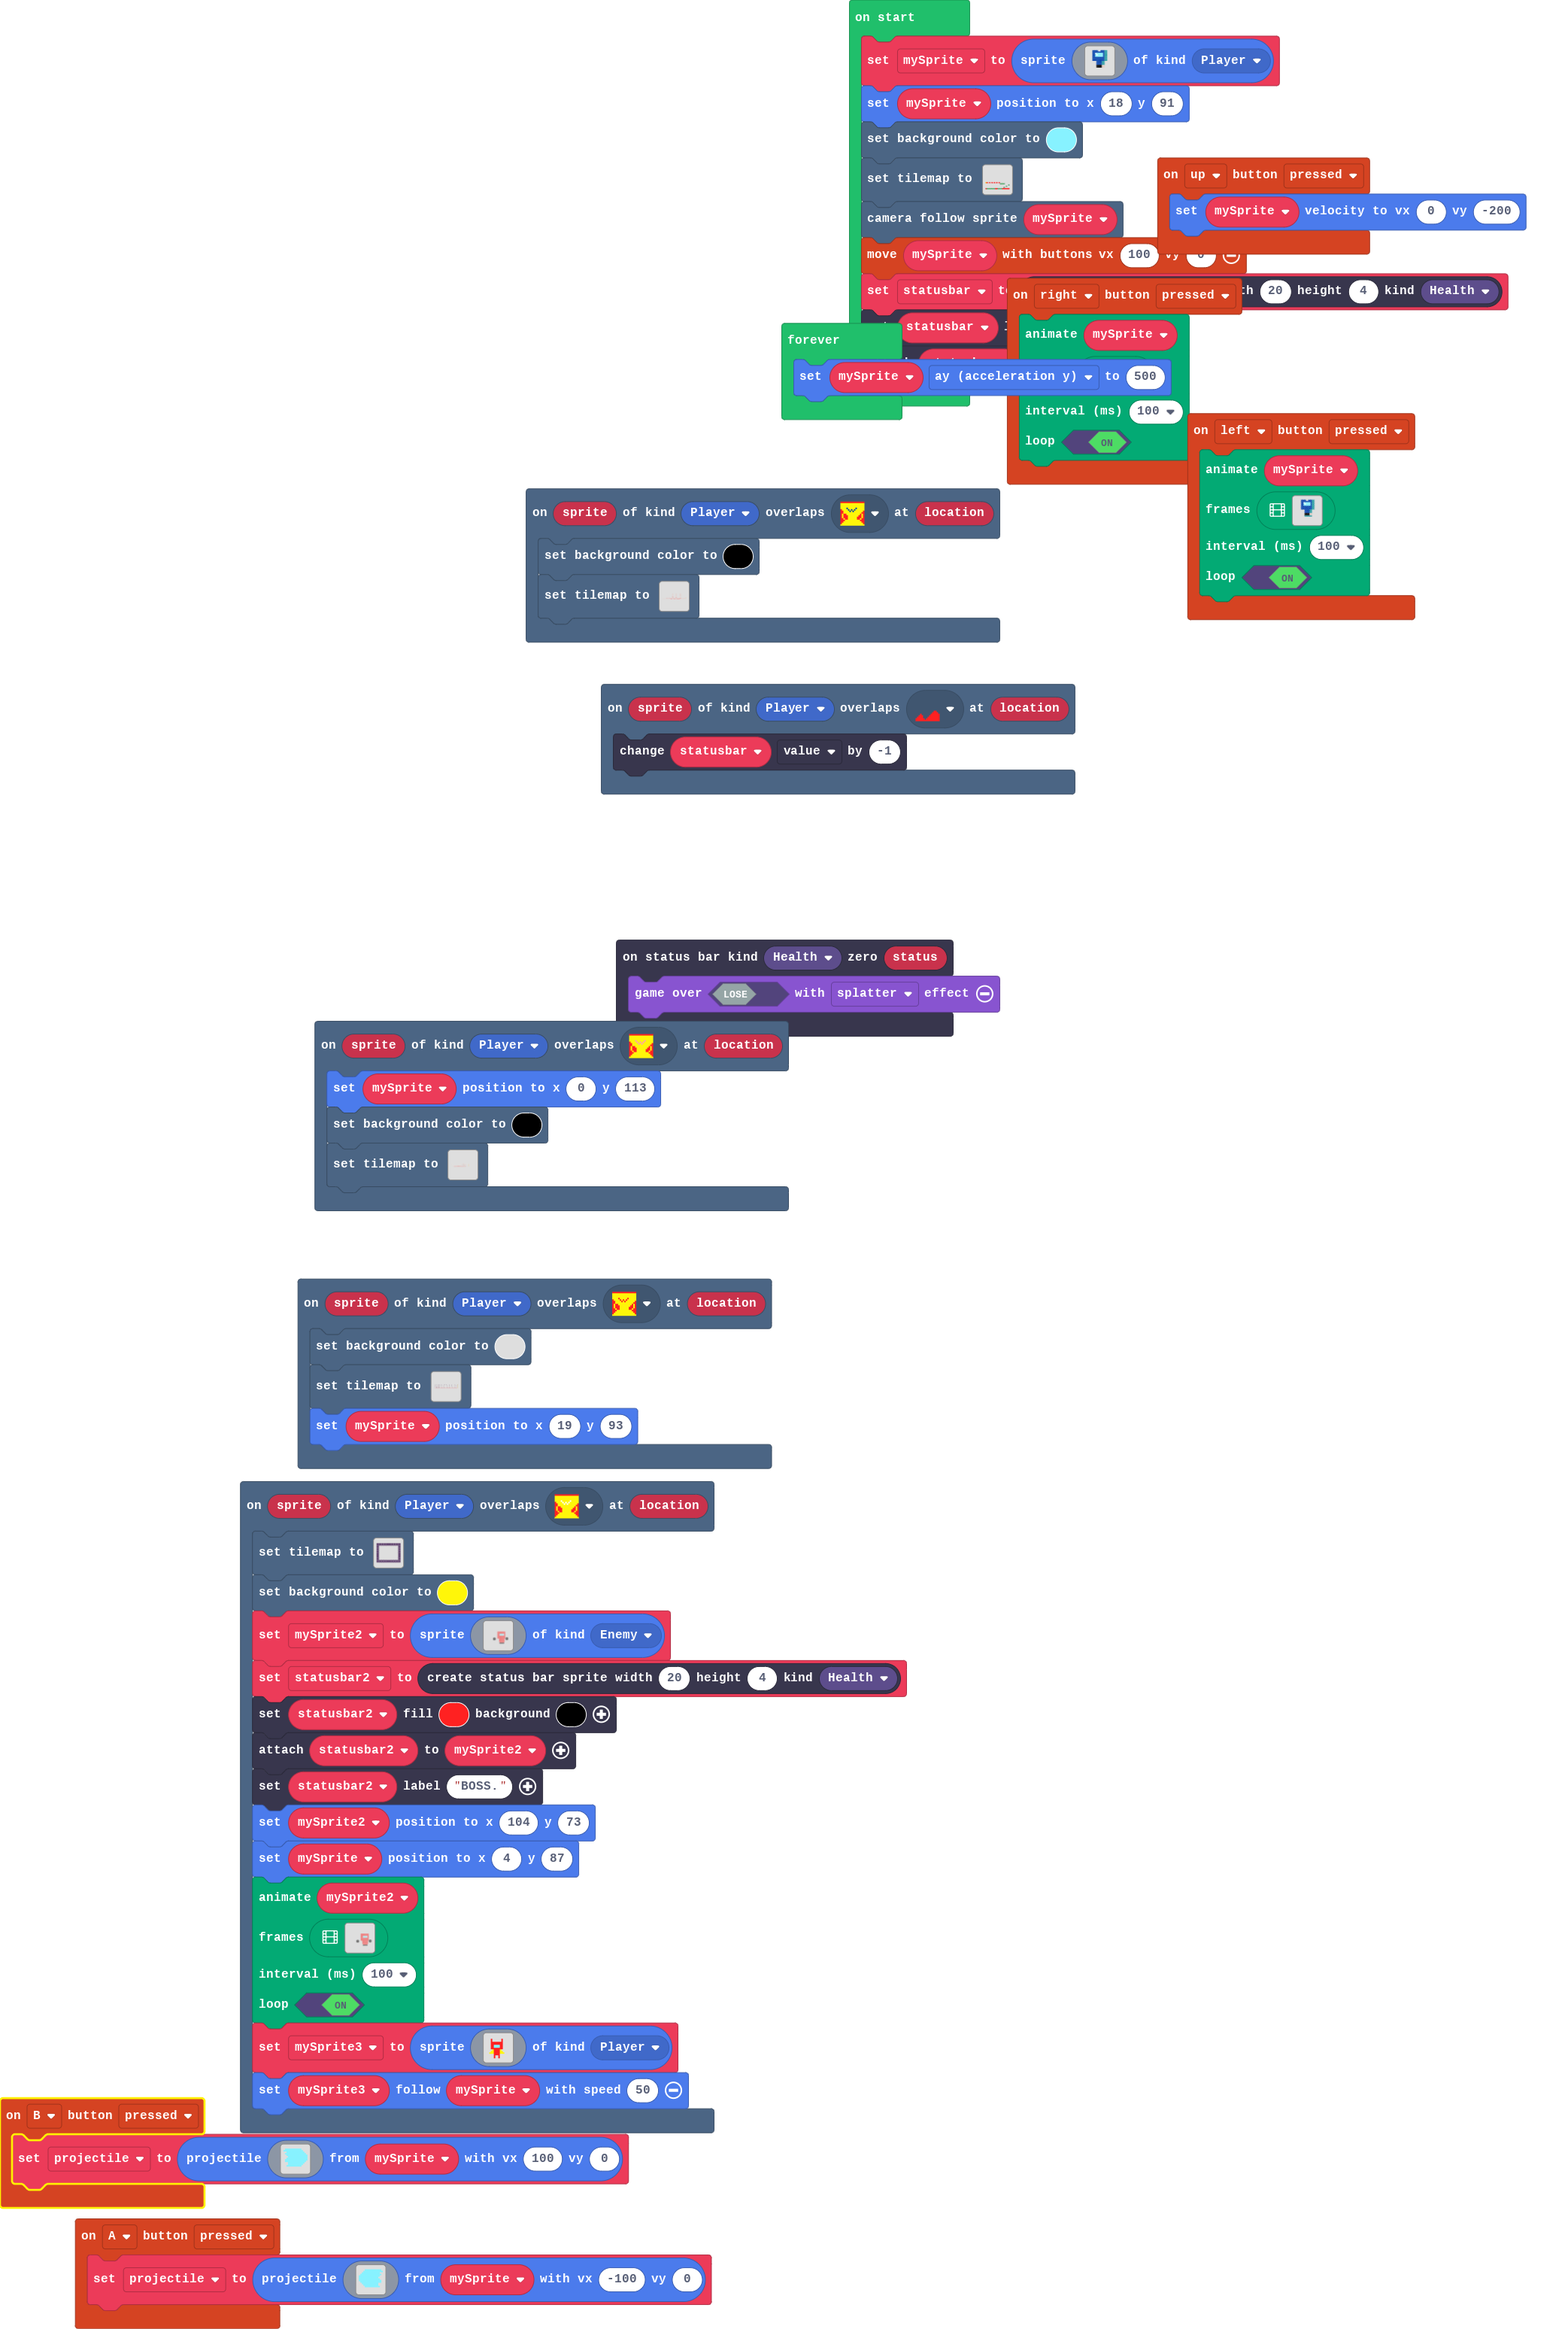
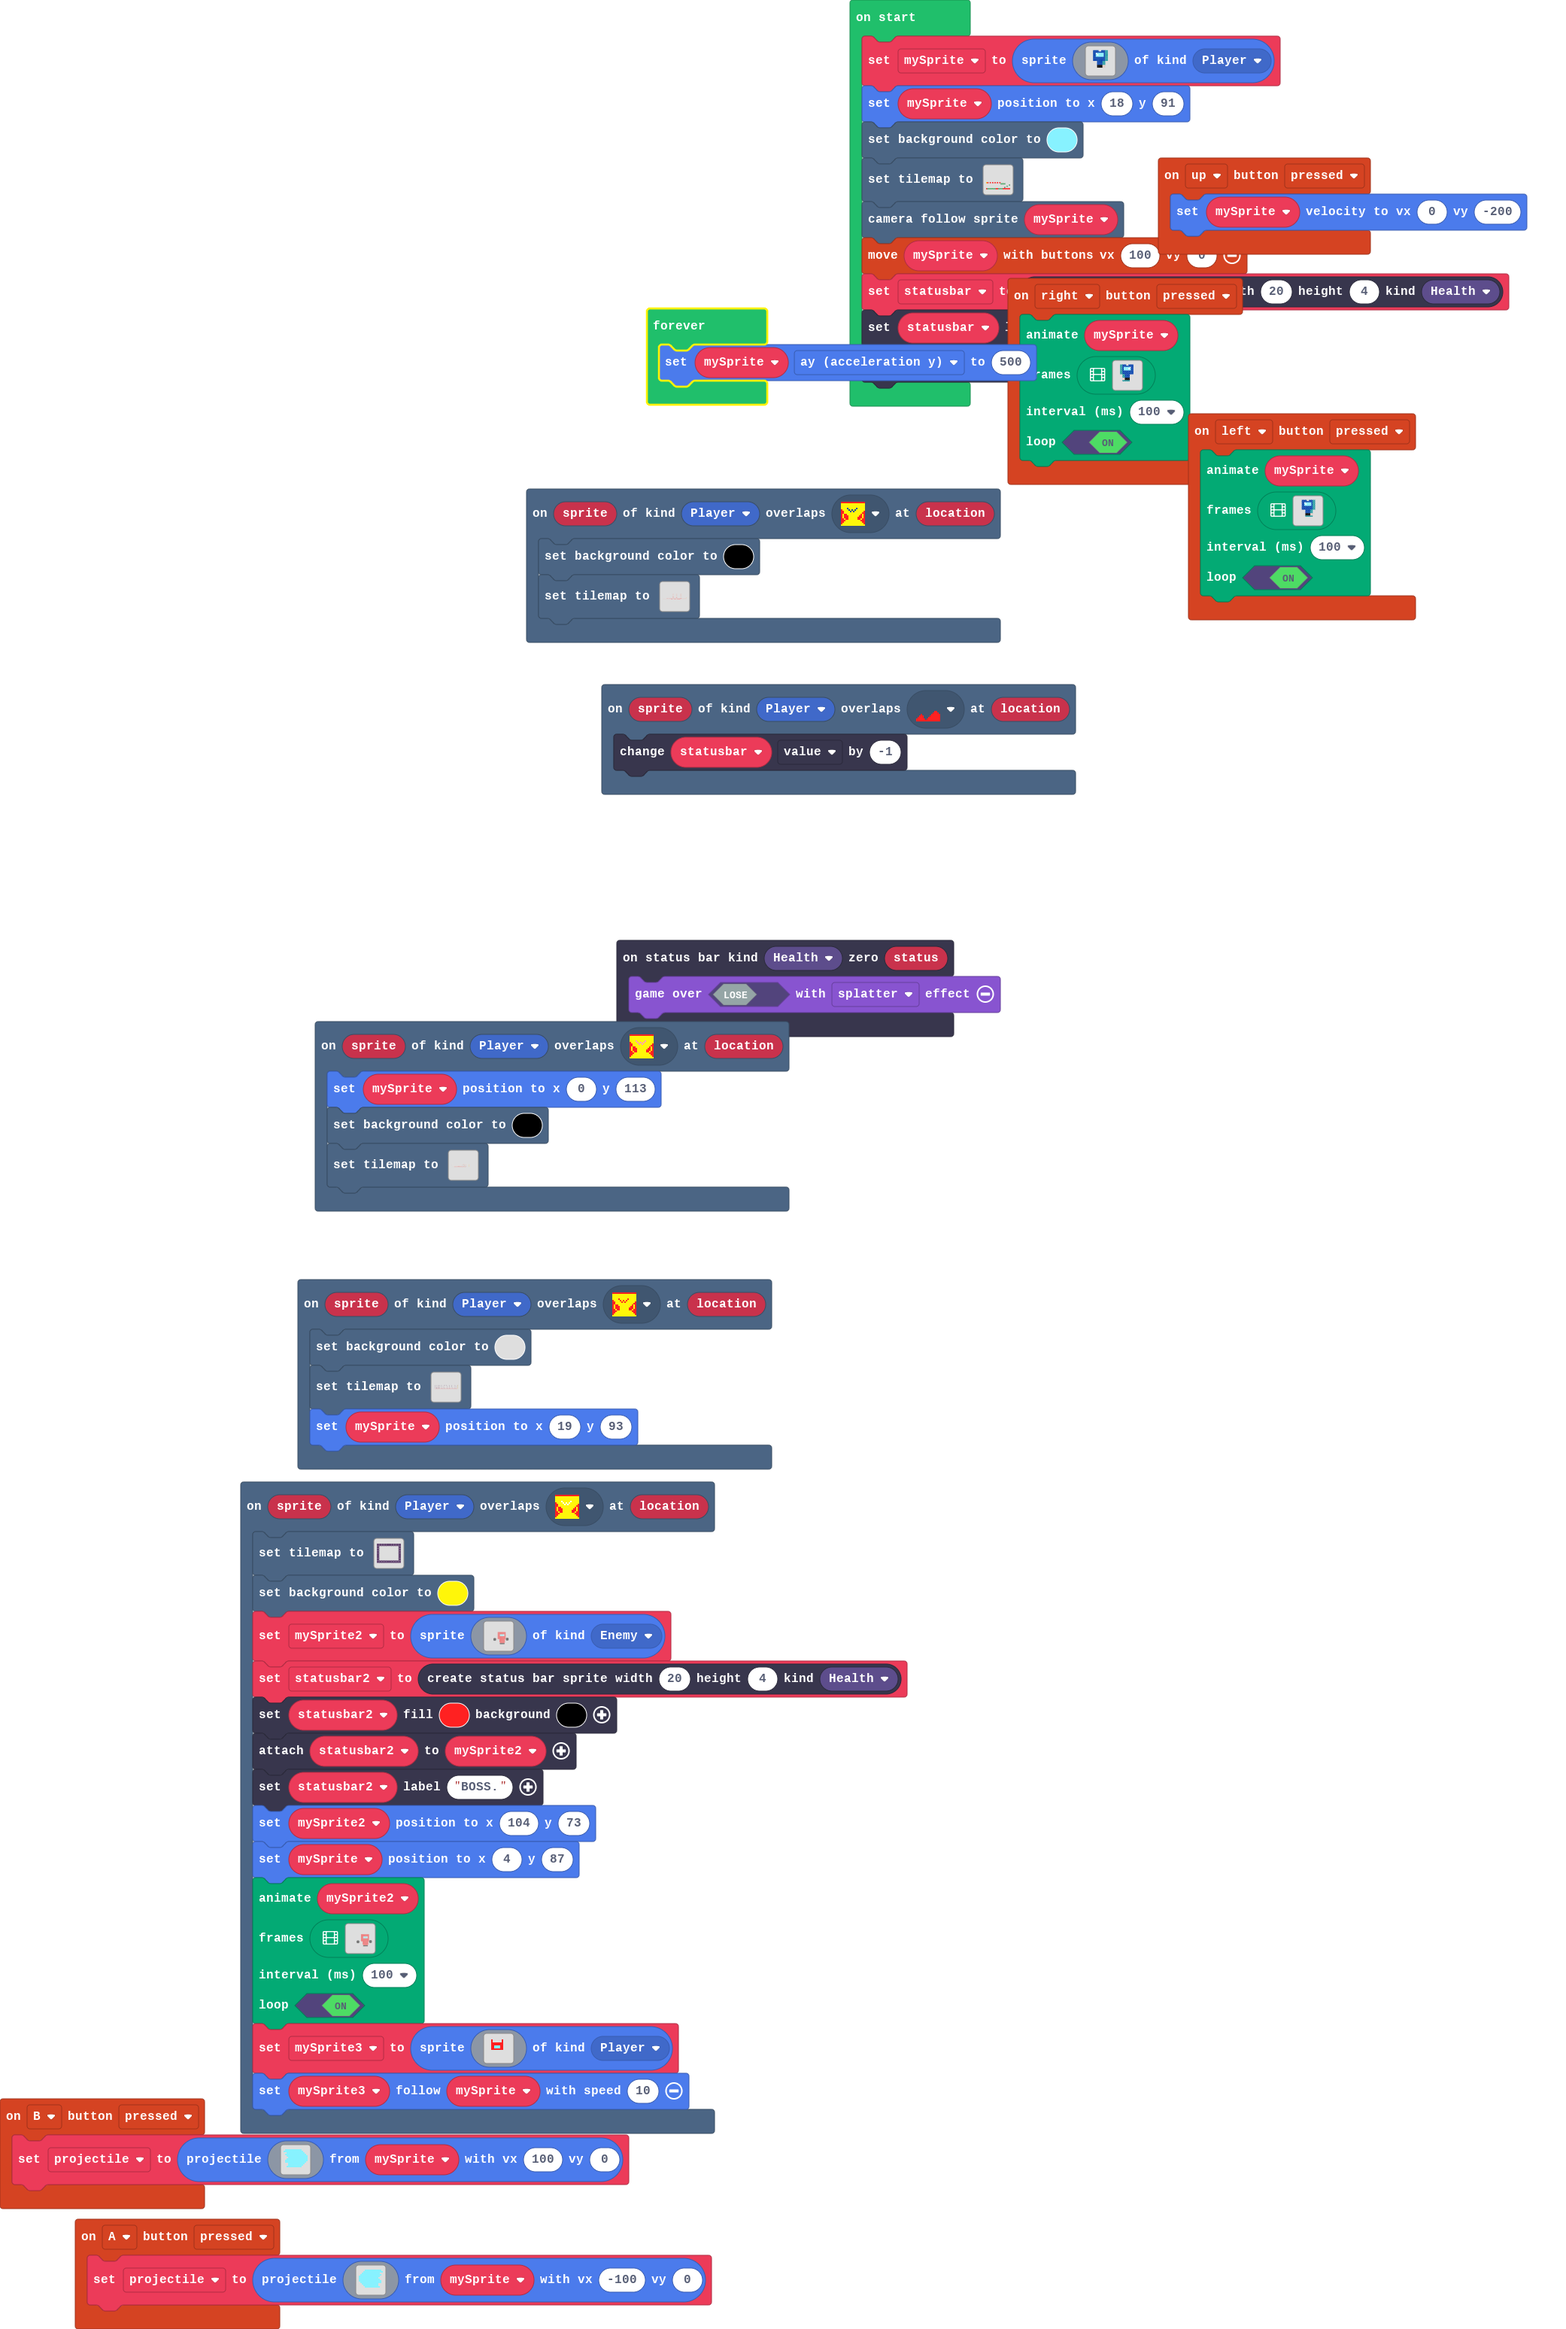
Update main.blocks, main.ts, tilemap.g.ts, images.g.jres, images.g.ts

diff --git a/images.g.ts b/images.g.ts
@@ -125,24 +125,6 @@ namespace myImages {
 ....................................................................................................
 ..............................................................................33333.................
 `;
-            case "image3":return img`
-. . . . . . . . . . . . . . . . 
-. . . . . . . . . . . . . . . . 
-. . . 2 . . . . . . 2 . . . . . 
-. . . 2 . . . . . . 2 . . . . . 
-. . . 2 2 2 2 2 2 2 2 . . . . . 
-. . . 2 2 2 2 2 2 2 2 . . . . . 
-. . . 2 2 9 9 9 9 2 2 . . . . . 
-. . . 2 2 9 9 9 9 2 2 . . . . . 
-. . . 2 2 2 2 2 2 2 2 . . . . . 
-. . . . 5 2 2 2 2 5 . . . . . . 
-. . . 5 5 2 2 2 2 5 5 . . . . . 
-. . 5 5 5 2 2 2 2 5 5 5 . . . . 
-. . . . . 2 2 2 2 . . . . . . . 
-. . . . . 2 . . 2 . . . . . . . 
-. . . . . 2 . . 2 . . . . . . . 
-. . . . . . . . . . . . . . . . 
-`;
             case "image5":return img`
 . . . . . . . . . . . . . . . . 
 . . . . 9 9 9 9 9 9 9 9 9 9 9 . 
@@ -175,6 +157,24 @@ namespace myImages {
 . . . 9 9 9 9 9 9 9 9 9 9 9 . . 
 . . . 9 9 9 9 9 9 9 9 9 9 . . . 
 . . 9 9 9 9 9 9 9 9 9 9 . . . . 
+. . . . . . . . . . . . . . . . 
+. . . . . . . . . . . . . . . . 
+. . . . . . . . . . . . . . . . 
+`;
+            case "image3":return img`
+. . . . . . . . . . . . . . . . 
+. . . . . . . . . . . . . . . . 
+. . . 2 . . . . . . 2 . . . . . 
+. . . 2 . . . . . . 2 . . . . . 
+. . . 2 2 2 2 2 2 2 2 . . . . . 
+. . . 2 2 2 2 2 2 2 2 . . . . . 
+. . . 2 2 9 9 9 9 2 2 . . . . . 
+. . . 2 2 9 9 9 9 2 2 . . . . . 
+. . . 2 2 2 2 2 2 2 2 . . . . . 
+. . . . . . . . . . . . . . . . 
+. . . . . . . . . . . . . . . . 
+. . . . . . . . . . . . . . . . 
+. . . . . . . . . . . . . . . . 
 . . . . . . . . . . . . . . . . 
 . . . . . . . . . . . . . . . . 
 . . . . . . . . . . . . . . . . 

diff --git a/tilemap.g.ts b/tilemap.g.ts
@@ -188,6 +188,25 @@ namespace myTiles {
 ..............22222222222......................2......2...2..............2..........................
 222222222222...........................2.......2...2..2...2...2..........2..........................
 `, [myTiles.transparency16,myTiles.tile8,myTiles.tile10,sprites.builtin.brick,sprites.dungeon.collectibleRedCrystal,sprites.dungeon.collectibleBlueCrystal,myTiles.tile7], TileScale.Sixteen);
+            case "level10":
+            case "level10":return tiles.createTilemap(hex`1000100000000000000000000000000000000000000000000000000000000000000000000000000000000000000000000000000000000000000000000000000000000000000000000000000000000000000000000000000000000000000000000000000000000000000000000000000000000000000000000000000000000000000000000000000000000000000000000000000000000000000000000000000000000000000000000000000000000000000000000000000000000000000000000000000000000000000000000000000000000000000000000000000000000000000000000000000000000000000000000000000000000000000000000000000000000000`, img`
+. . . . . . . . . . . . . . . . 
+. . . . . . . . . . . . . . . . 
+. . . . . . . . . . . . . . . . 
+. . . . . . . . . . . . . . . . 
+. . . . . . . . . . . . . . . . 
+. . . . . . . . . . . . . . . . 
+. . . . . . . . . . . . . . . . 
+. . . . . . . . . . . . . . . . 
+. . . . . . . . . . . . . . . . 
+. . . . . . . . . . . . . . . . 
+. . . . . . . . . . . . . . . . 
+. . . . . . . . . . . . . . . . 
+. . . . . . . . . . . . . . . . 
+. . . . . . . . . . . . . . . . 
+. . . . . . . . . . . . . . . . 
+. . . . . . . . . . . . . . . . 
+`, [myTiles.transparency16], TileScale.Sixteen);
         }
         return null;
     })

diff --git a/main.ts b/main.ts
@@ -175,15 +175,15 @@ scene.onOverlapTile(SpriteKind.Player, assets.tile`myTile4`, function (sprite, l
         . . . 2 2 9 9 9 9 2 2 . . . . . 
         . . . 2 2 9 9 9 9 2 2 . . . . . 
         . . . 2 2 2 2 2 2 2 2 . . . . . 
-        . . . . 5 2 2 2 2 5 . . . . . . 
-        . . . 5 5 2 2 2 2 5 5 . . . . . 
-        . . 5 5 5 2 2 2 2 5 5 5 . . . . 
-        . . . . . 2 2 2 2 . . . . . . . 
-        . . . . . 2 . . 2 . . . . . . . 
-        . . . . . 2 . . 2 . . . . . . . 
+        . . . . . . . . . . . . . . . . 
+        . . . . . . . . . . . . . . . . 
+        . . . . . . . . . . . . . . . . 
+        . . . . . . . . . . . . . . . . 
+        . . . . . . . . . . . . . . . . 
+        . . . . . . . . . . . . . . . . 
         . . . . . . . . . . . . . . . . 
         `, SpriteKind.Player)
-    mySprite3.follow(mySprite, 50)
+    mySprite3.follow(mySprite, 10)
 })
 controller.left.onEvent(ControllerButtonEvent.Pressed, function () {
     animation.runImageAnimation(
